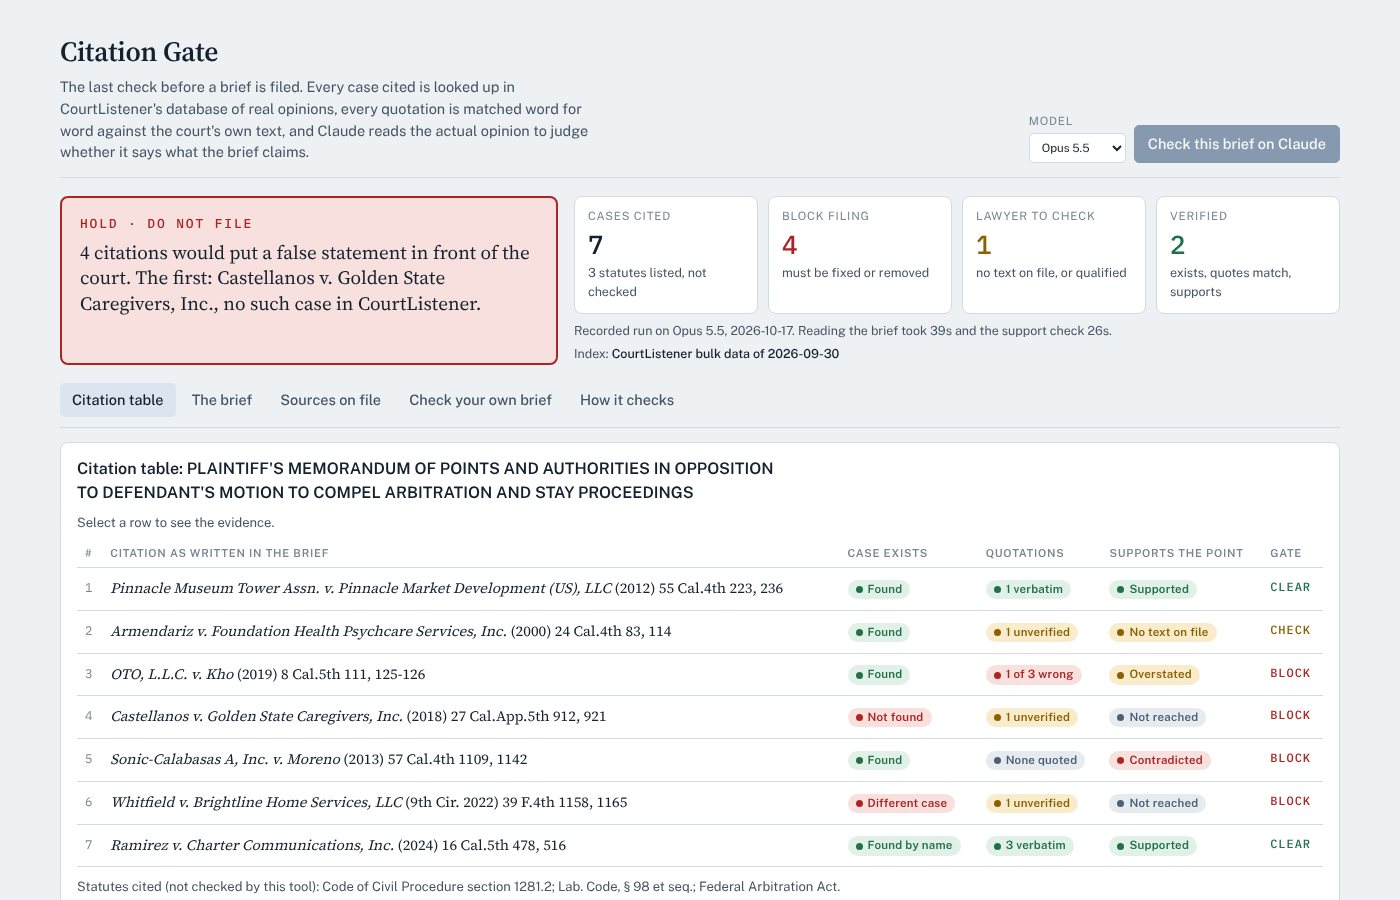
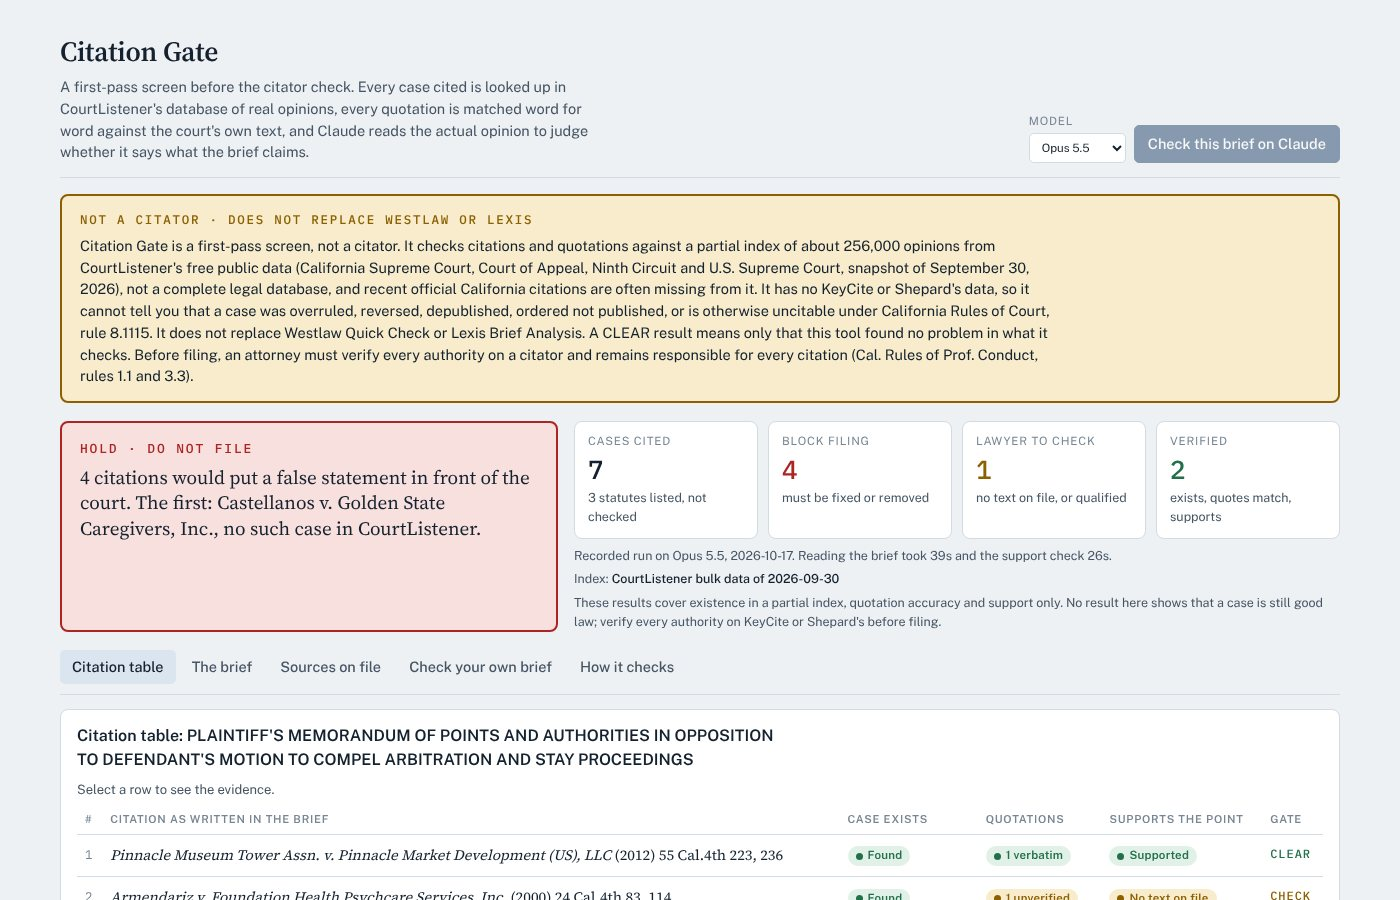
Citation Gate: say plainly it is not a citator, with its limits (#3)
Claude-Session: https://claude.ai/code/session_01MmYVWF1VcGvf1C5dCrmDy1

diff --git a/index.html b/index.html
@@ -632,19 +632,21 @@ span.note { font-style: italic; color: var(--muted); }
   <details class="case" id="citationgate">
     <summary class="case-sum">
       <div class="shelf-head">
-      <span class="eyebrow">Case study 11 · Litigation safeguard</span>
+      <span class="eyebrow">Case study 11 · Litigation screen</span>
       <h2>Citation Gate</h2>
-      <p class="sum">The last check before a brief is filed. Every case cited is looked up in a database of real opinions, every quotation is matched word for word against the court’s text, and Claude reads the actual opinion to judge whether it says what the brief claims.</p>
+      <p class="sum">A first-pass screen before the citator check, not a citator. Every case cited is looked up in a database of real opinions, every quotation is matched word for word against the court’s text, and Claude reads the actual opinion to judge whether it says what the brief claims.</p>
       </div>
     </summary>
     <div class="case-body">
       <p class="links"><span>No public demo here: screenshots only, since it needs a 28 MB opinion index. All cases and briefs are invented</span></p>
 
+    <div class="made"><b>Not a citator. Does not replace Westlaw or Lexis.</b><p>It checks citations and quotations against a partial index of about 256,000 opinions from CourtListener&rsquo;s free public data (California Supreme Court, Court of Appeal, Ninth Circuit and U.S. Supreme Court, snapshot of September 30, 2026), and recent official California citations are often missing from it. It has no KeyCite or Shepard&rsquo;s data, so it cannot tell you that a case was overruled, reversed, depublished, ordered not published, or is uncitable under California Rules of Court, rule 8.1115. A result of &ldquo;no issues found&rdquo; means only that this tool found no problem in what it checks. Before filing, an attorney must verify every authority on a citator and remains responsible for every citation.</p></div>
+
     <dl class="stats">
       <div><dt>Citations in the test brief</dt><dd>7</dd></div>
       <div><dt>Problems planted</dt><dd>4</dd></div>
       <div><dt>Problems caught</dt><dd>4</dd></div>
-      <div><dt>Opinions in the index</dt><dd>256,000</dd></div>
+      <div><dt>Opinions in the partial index</dt><dd>256,000</dd></div>
       <div><dt>Verdict on the brief</dt><dd>Hold, do not file</dd></div>
       <div><dt>Checked against</dt><dd>Court’s own text</dd></div>
     </dl>
@@ -672,7 +674,7 @@ span.note { font-style: italic; color: var(--muted); }
           <li><strong>Looks up each case</strong> in a local index built from CourtListener, and flags a citation that belongs to a different case.</li>
           <li><strong>Matches every quotation</strong> against the opinion text, word for word, and marks the words that differ.</li>
           <li><strong>Reads the opinion</strong> to judge whether it supports the point, and routes anything uncertain to a lawyer.</li>
-          <li><strong>Signs off:</strong> a table a lawyer signs, exported as a file or CSV.</li>
+          <li><strong>Signs off:</strong> a table a lawyer signs, exported as a file or CSV. The sign-off states that every authority was also checked on KeyCite or Shepard&rsquo;s.</li>
         </ul>
       </section>
     </div>
@@ -682,13 +684,13 @@ span.note { font-style: italic; color: var(--muted); }
         <h3>Decisions behind it</h3>
         <ul>
           <li><strong>Lookup first, model second.</strong> Existence and quotation checks are plain code against real text; the model only judges support.</li>
-          <li><strong>No text, no pass.</strong> A case with no opinion on file is marked for a lawyer and never cleared.</li>
-          <li><strong>Say what it did not check.</strong> Statutes and rules are listed as not checked by this tool.</li>
+          <li><strong>No text, no pass.</strong> A case with no opinion on file is marked for a lawyer and never passed.</li>
+          <li><strong>Say what it did not check.</strong> Statutes and rules are listed as not checked, and even a clean result is stamped &ldquo;no issues found, citator check still required.&rdquo;</li>
         </ul>
       </section>
       <section class="block">
         <h3>What the recorded run showed</h3>
-        <p>On a 7-case brief with problems planted, it blocked all four: two made-up or mismatched cases, one misquote and one wrong proposition. It cleared the two accurate citations and sent the rest to a lawyer rather than guessing.</p>
+        <p>On a 7-case brief with problems planted, it blocked all four: two made-up or mismatched cases, one misquote and one wrong proposition. It found no problem with the two accurate citations, which still need a citator check, and sent the rest to a lawyer rather than guessing.</p>
       </section>
     </div>
 
